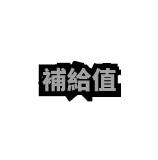
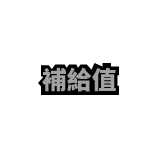
20260125
工作站互動高亮

Changed region(s): [[0.2278, 0.375, 0.7848, 0.6562], [0.6076, 0.375, 0.6582, 0.4375], [0.557, 0.4062, 0.6076, 0.4375]]

diff --git a/Assets/Scenes/Script/CookingGame/minigameSystem/CookingStation.cs b/Assets/Scenes/Script/CookingGame/minigameSystem/CookingStation.cs
@@ -12,6 +12,9 @@ public class CookingStation : MonoBehaviour
     [Tooltip("Inspector 預設值；若有 WorkbenchMaxEnergy 定義，會以升級值覆蓋")]
     public int maxEnergy = 3;
 
+    [Header("Highlight")]
+    [SerializeField] private StationHighlighter_SwapOutlineMat highlighter;
+
     [SerializeField] private int currentEnergy;
 
     public Image energyMask;
@@ -27,6 +30,13 @@ public class CookingStation : MonoBehaviour
 
     [Tooltip("WorkbenchMaxEnergy 變更時是否回滿能量")]
     public bool refillEnergyWhenMaxEnergyChanges = true;
+
+    private void Awake()
+    {
+        if (!highlighter)
+            highlighter = GetComponentInChildren<StationHighlighter_SwapOutlineMat>(true);
+    }
+
 
     private void OnEnable()
     {
@@ -200,12 +210,19 @@ public class CookingStation : MonoBehaviour
     private void OnTriggerEnter(Collider other)
     {
         if (other.CompareTag("Player"))
+        {
             playerInRange = true;
+            if (highlighter) highlighter.SetHighlight(true);
+        }
     }
 
     private void OnTriggerExit(Collider other)
     {
         if (other.CompareTag("Player"))
+        {
             playerInRange = false;
+            if (highlighter) highlighter.SetHighlight(false);
+        }
     }
+
 }
